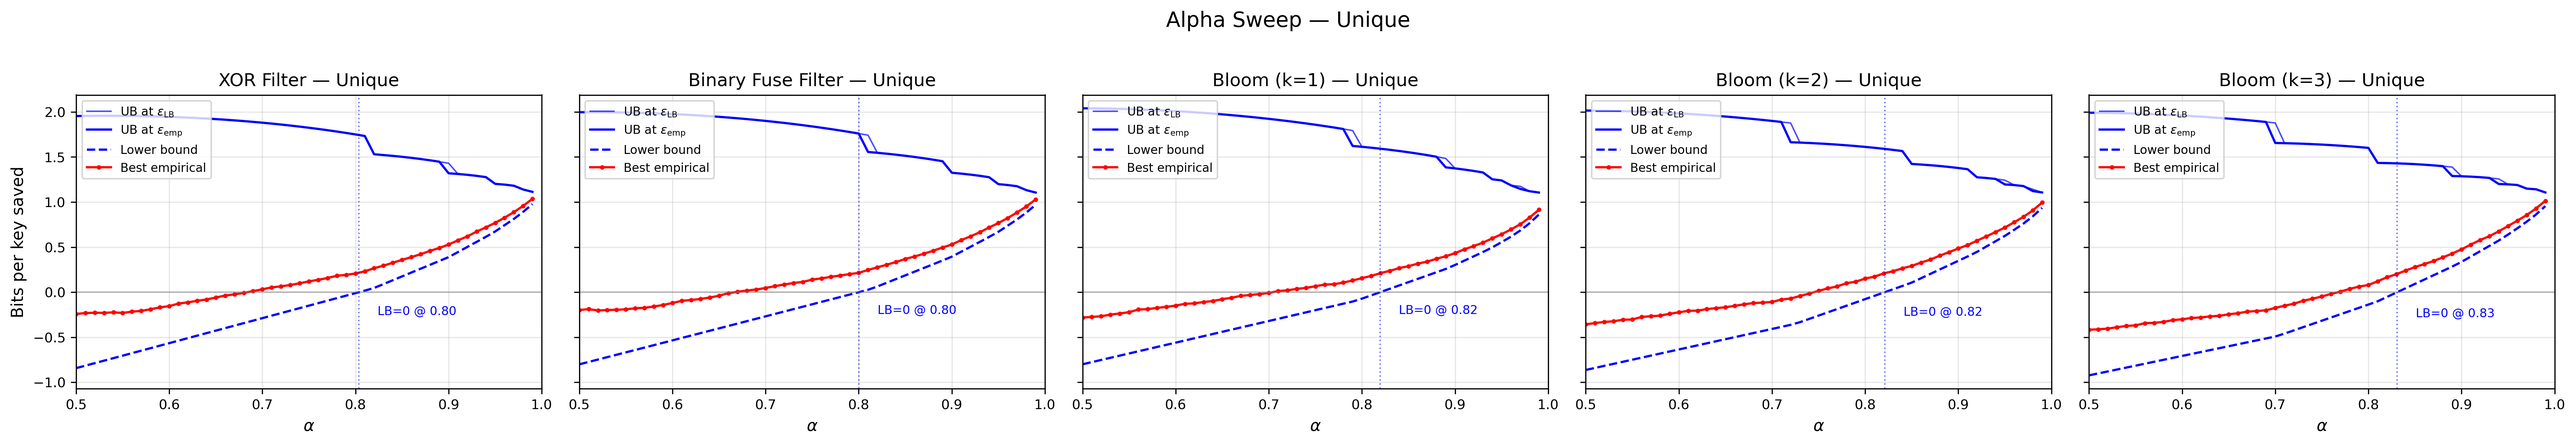
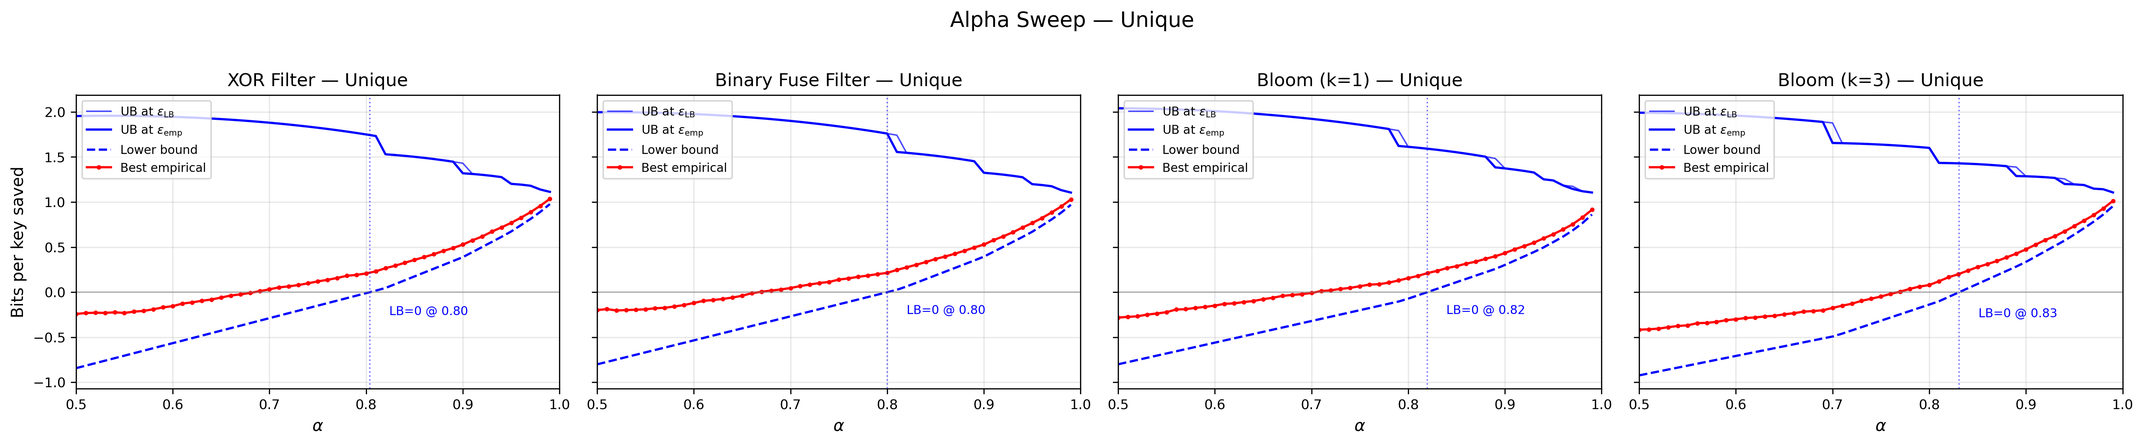
better plots and construction times

diff --git a/theory_validation/make_plots.py b/theory_validation/make_plots.py
@@ -16,6 +16,7 @@ FIGURES_DIR = os.path.join(_dir, "figures")
 DATA_DIR = os.path.join(FIGURES_DIR, "data")
 
 FILTER_LABELS = ["xor", "binary_fuse", "bloom_k1", "bloom_k2", "bloom_k3"]
+FILTER_LABELS_COMBINED = ["xor", "binary_fuse", "bloom_k1", "bloom_k3"]
 DISTRIBUTIONS = ["unique", "zipfian", "uniform_100"]
 EPSILON_SWEEP_ALPHAS = [0.7, 0.9]
 
@@ -186,9 +187,9 @@ def plot_alpha_sweep_individual(filter_label, dist):
 
 
 def plot_alpha_sweep_combined(dist):
-    fig, axes = plt.subplots(1, 5, figsize=(24, 4), sharey=True)
+    fig, axes = plt.subplots(1, len(FILTER_LABELS_COMBINED), figsize=(20, 4), sharey=True)
 
-    for i, fl in enumerate(FILTER_LABELS):
+    for i, fl in enumerate(FILTER_LABELS_COMBINED):
         path = os.path.join(DATA_DIR, f"alpha_sweep_{fl}_{dist}.json")
         data = load_json(path)
         if data is None:
@@ -318,9 +319,11 @@ def plot_epsilon_sweep_individual(filter_label, dist, alpha):
 
 
 def plot_epsilon_sweep_combined(dist, alpha):
-    fig, axes = plt.subplots(1, 5, figsize=(24, 5))
+    fig, axes = plt.subplots(
+        1, len(FILTER_LABELS_COMBINED), figsize=(20, 5),
+    )
 
-    for i, fl in enumerate(FILTER_LABELS):
+    for i, fl in enumerate(FILTER_LABELS_COMBINED):
         path = os.path.join(DATA_DIR, f"epsilon_sweep_{fl}_{dist}_alpha{alpha}.json")
         data = load_json(path)
         if data is None:

diff --git a/deps/lsf/run_benchmark.py b/deps/lsf/run_benchmark.py
@@ -212,7 +212,10 @@ def results_to_json(results, keys, values, competitor):
 
         entry = {
             "method": name,
-            "construction_time_s": r.get("construct_ms", 0) / 1000.0,
+            "construction_time_s": (
+                r.get("construct_ms", 0) / 1000.0
+                + r.get("training_seconds", 0)
+            ),
             "inference_ns": {
                 "mean": r.get("query_nanos", 0),
             },

diff --git a/baselines/figures/tables.md b/baselines/figures/tables.md
@@ -46,7 +46,7 @@
 | CSF+Bloom (Shibuya) | 319 | 296 | 260 | 250 | 330 | 214 | 231 |
 | Java CSF (Sux4J) | 346 | 570 | 542 | 337 | 295 | 326 | 319 |
 | Java MPH Table | 1412 | 1280 | 1322 | 1505 | 1245 | 1551 | 1997 |
-| Learned CSF | 6129 | 6200 | 6547 | 6500 | 5810 | 3187 | 3299 |
+| Learned CSF | 6435 | 6180 | 6107 | 6160 | 5474 | 3199 | 3337 |
 
 
 ### Avg Inference Time (ns) — binary_fuse [unique]
@@ -58,7 +58,7 @@
 | CSF+Bloom (Shibuya) | 400 | 354 | 300 | 341 | 312 | 236 | 236 |
 | Java CSF (Sux4J) | 667 | 1320 | 399 | 377 | 365 | 330 | 358 |
 | Java MPH Table | 1363 | 1439 | 1400 | 1236 | 1383 | 1390 | 1505 |
-| Learned CSF | 3997545 | 3116383 | 2299834 | 1485353 | 614064 | 243118 | 35747 |
+| Learned CSF | 3997545 | 3116383 | 2299834 | 1485353 | 601561 | 243241 | 36641 |
 
 
 ### Avg Inference Time (ns) — binary_fuse [zipfian]
@@ -70,7 +70,7 @@
 | CSF+Bloom (Shibuya) | 283 | 266 | 289 | 247 | 243 | 229 | 222 |
 | Java CSF (Sux4J) | 397 | 357 | 1065 | 355 | 336 | 333 | 321 |
 | Java MPH Table | 1195 | 1371 | 1533 | 1344 | 1250 | 1323 | 1925 |
-| Learned CSF | 76152 | 64333 | 52448 | 38181 | 23518 | 13302 | 5085 |
+| Learned CSF | 76811 | 64949 | 54403 | 39387 | 23674 | 13530 | 5064 |
 
 
 ### Construction Time (s) — binary_fuse [uniform_100]
@@ -82,7 +82,7 @@
 | CSF+Bloom (Shibuya) | 0.042 | 0.036 | 0.034 | 0.027 | 0.022 | 0.019 | 0.017 |
 | Java CSF (Sux4J) | 0.415 | 0.264 | 0.286 | 0.184 | 0.168 | 0.189 | 0.145 |
 | Java MPH Table | 0.569 | 0.407 | 0.409 | 0.438 | 0.438 | 0.572 | 0.414 |
-| Learned CSF | 1.276 | 1.267 | 1.280 | 1.276 | 1.138 | 0.643 | 0.633 |
+| Learned CSF | 5.173 | 5.298 | 5.559 | 5.480 | 5.783 | 5.733 | 7.321 |
 
 
 ### Construction Time (s) — binary_fuse [unique]
@@ -94,7 +94,7 @@
 | CSF+Bloom (Shibuya) | 0.084 | 0.070 | 0.078 | 0.051 | 0.038 | 0.026 | 0.020 |
 | Java CSF (Sux4J) | 0.559 | 0.518 | 0.619 | 0.339 | 0.238 | 0.198 | 0.190 |
 | Java MPH Table | 0.496 | 0.527 | 0.539 | 0.487 | 0.485 | 0.472 | 0.627 |
-| Learned CSF | 793.065 | 626.495 | 458.455 | 296.236 | 130.064 | 47.823 | 7.153 |
+| Learned CSF | 793.065 | 626.495 | 458.455 | 296.236 | 184.074 | 85.772 | 21.813 |
 
 
 ### Construction Time (s) — binary_fuse [zipfian]
@@ -106,4 +106,4 @@
 | CSF+Bloom (Shibuya) | 0.035 | 0.052 | 0.035 | 0.027 | 0.018 | 0.019 | 0.016 |
 | Java CSF (Sux4J) | 0.291 | 0.268 | 0.238 | 0.185 | 0.172 | 0.169 | 0.160 |
 | Java MPH Table | 0.569 | 0.515 | 0.552 | 0.490 | 0.428 | 0.470 | 0.419 |
-| Learned CSF | 14.909 | 12.791 | 10.426 | 7.632 | 4.657 | 2.664 | 0.985 |
+| Learned CSF | 32.064 | 30.174 | 26.529 | 22.474 | 17.973 | 13.284 | 8.633 |
